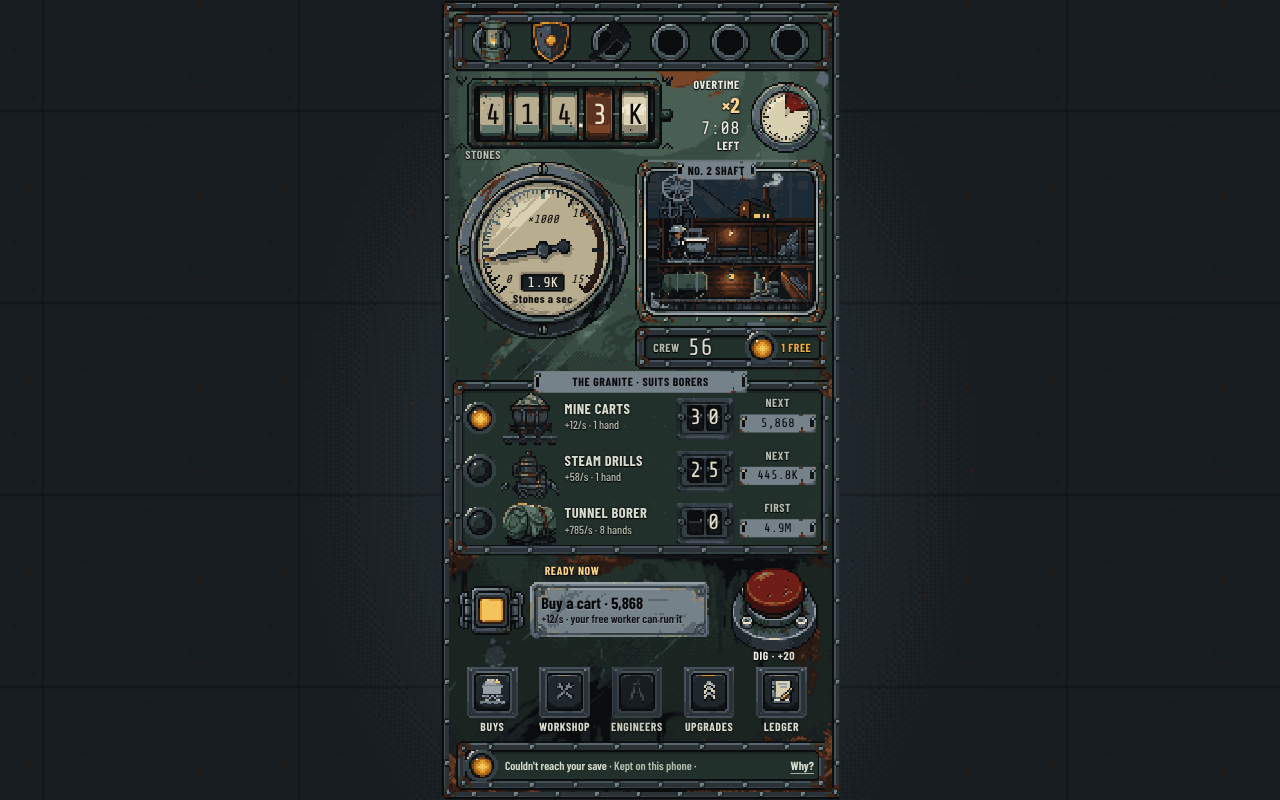
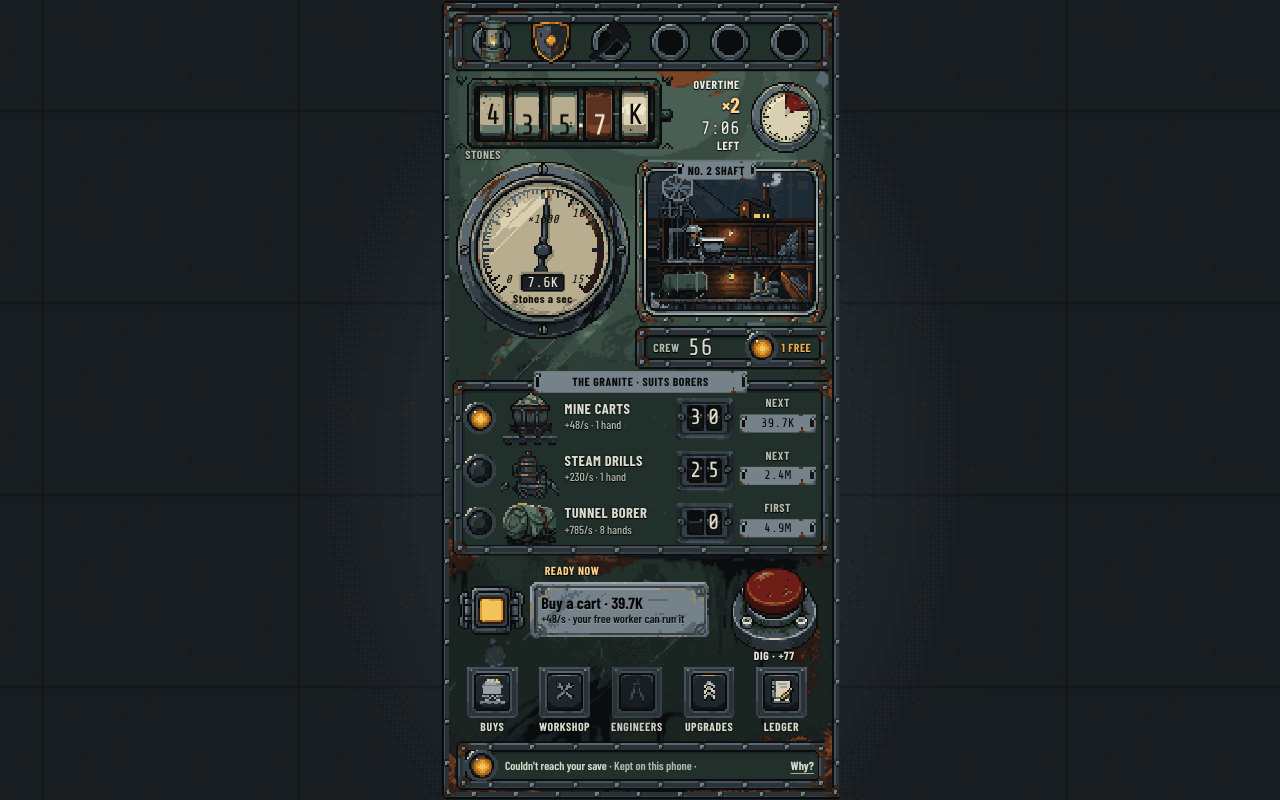
The control-board mockup takes its prices, speeds and milestone lines from the game's numbers, kept equal by a test (#387).
Claude-Session: https://claude.ai/code/session_011RgeWtHrfst9ZFo4UNmN4N

diff --git a/mockups/control-board/index.html b/mockups/control-board/index.html
@@ -215,7 +215,7 @@ body.desk #housing{display:block}
 .srow .ico{width:64px;height:64px}
 .srow .mid{position:relative;display:flex;flex-direction:column;min-width:0;overflow:hidden}
 .srow .nm{font-size:17px;line-height:19px;font-weight:700;color:var(--ink);white-space:nowrap}
-.srow .info{font-size:13px;line-height:15px;color:var(--ink-2);white-space:nowrap}
+.srow .info{font-size:13px;line-height:15px;color:var(--ink-2);white-space:nowrap;overflow:hidden;text-overflow:ellipsis}
 .srow .info.good{color:var(--green)}
 .srow .need{font-size:13px;line-height:15px;color:var(--rust);white-space:nowrap}
 .srow .need:empty{display:none}
@@ -444,6 +444,140 @@ body.desk #housing{display:block}
 </div>
 </div>
 
+<!-- The game's numbers: src/tiers.ts, src/milestones.ts and src/layers.ts (the Granite).
+     mockups/control-board.test.ts keeps this block equal to them (#387). -->
+<script type="application/json" id="game-numbers">
+{
+ "growth": {
+  "machine": 1.15,
+  "worker": 1.06
+ },
+ "tiers": {
+  "helper": {
+   "firstCost": 20,
+   "perSecond": 1
+  },
+  "cart": {
+   "firstCost": 600,
+   "perSecond": 6
+  },
+  "drill": {
+   "firstCost": 73080,
+   "perSecond": 36
+  },
+  "borer": {
+   "firstCost": 4940000,
+   "perSecond": 357
+  }
+ },
+ "granite": {
+  "drill": 0.8,
+  "borer": 1.1
+ },
+ "milestones": {
+  "multiplier": 2,
+  "reachedLine": "Twice as fast now.",
+  "marks": {
+   "helper": [
+    {
+     "at": 25,
+     "goal": "Twenty-five workers who know the songs. Every worker digs twice as fast."
+    },
+    {
+     "at": 50,
+     "goal": "Fifty workers around one long lunch table. Twice as fast again."
+    },
+    {
+     "at": 100,
+     "goal": "A hundred workers. The camp is a little village now. Twice as fast again."
+    }
+   ],
+   "cart": [
+    {
+     "at": 10,
+     "goal": "Ten carts on the rails. Every cart hauls twice as fast."
+    },
+    {
+     "at": 25,
+     "goal": "Twenty-five carts in a long, rattling line. Twice as fast again."
+    },
+    {
+     "at": 50,
+     "goal": "Fifty carts and the rails never rest. Twice as fast again."
+    },
+    {
+     "at": 100,
+     "goal": "A hundred carts, a river of rock. Twice as fast again."
+    },
+    {
+     "at": 150,
+     "goal": "A hundred and fifty carts. The tracks hum all night. Twice as fast again."
+    },
+    {
+     "at": 200,
+     "goal": "Two hundred carts. The old mine was never this busy. Twice as fast again."
+    }
+   ],
+   "drill": [
+    {
+     "at": 10,
+     "goal": "Ten drills and the crew finds its rhythm. Every drill mines twice as fast."
+    },
+    {
+     "at": 25,
+     "goal": "Twenty-five drills humming together. Twice as fast again."
+    },
+    {
+     "at": 50,
+     "goal": "Fifty drills in step, like one long breath. Twice as fast again."
+    },
+    {
+     "at": 100,
+     "goal": "A hundred drills. The whole hill thrums. Twice as fast again."
+    },
+    {
+     "at": 150,
+     "goal": "A hundred and fifty drills, and nobody has to shout. Twice as fast again."
+    },
+    {
+     "at": 200,
+     "goal": "Two hundred drills. The rock just gives way. Twice as fast again."
+    }
+   ],
+   "borer": [
+    {
+     "at": 5,
+     "goal": "Five borers side by side. They clear the tunnels twice as fast."
+    },
+    {
+     "at": 10,
+     "goal": "Ten borers in step. Twice as fast again."
+    },
+    {
+     "at": 25,
+     "goal": "Twenty-five borers in step. Twice as fast again."
+    },
+    {
+     "at": 50,
+     "goal": "Fifty borers, a slow and steady thunder. Twice as fast again."
+    },
+    {
+     "at": 100,
+     "goal": "A hundred borers. New tunnels open by the hour. Twice as fast again."
+    },
+    {
+     "at": 150,
+     "goal": "A hundred and fifty borers working the deep dark. Twice as fast again."
+    },
+    {
+     "at": 200,
+     "goal": "Two hundred borers. The mountain rings like a bell. Twice as fast again."
+    }
+   ]
+  }
+ }
+}
+</script>
 <script>
 (() => {
 "use strict";
@@ -501,7 +635,7 @@ const lamp = (el, k) => frameX(el, LAMP[k], 40);
 
 /* ---------- State: the player's real numbers ---------- */
 const S = {
-  stones: 412_400, base: 956, mul: 2,
+  stones: 412_400, mul: 2,
   boostLeft: 7 * 60 + 9, boostLen: 30 * 60,
   workers: 56, free: 1, carts: 30, drills: 25, borers: 0,
   tapLevel: 1, boots: false, picksLeft: 0,
@@ -509,9 +643,31 @@ const S = {
   bench: null, saveTries: 3,
 };
 const STAFF = { cart: 1, drill: 1, borer: 8 };
-/* #363 curve: machines ×1.13 a unit, workers ×1.08 (src/tiers.ts tierCost) */
+/* The game's numbers, from the game-numbers block above (#387) */
+const GAME = JSON.parse(document.getElementById("game-numbers").textContent);
+const COUNT = { helper: () => S.workers, cart: () => S.carts, drill: () => S.drills, borer: () => S.borers };
+/* src/tiers.ts tierCost: machines and workers each climb their own curve */
 const curve = (first, g, n) => Math.ceil(Number((first * g ** n).toPrecision(12)));
-const rate = () => S.base * S.mul;
+const priceOf = id => curve(GAME.tiers[id].firstCost, id === "helper" ? GAME.growth.worker : GAME.growth.machine, COUNT[id]());
+/* src/milestones.ts: every mark reached doubles every one of that tier */
+const marksOf = (id, n) => GAME.milestones.marks[id].filter(m => n >= m.at).length;
+/* src/rates.ts: one of a tier, in the Granite, with its marks, before Overtime */
+const eachOf = id => GAME.tiers[id].perSecond * (GAME.granite[id] ?? 1) * GAME.milestones.multiplier ** marksOf(id, COUNT[id]());
+/* src/milestones.ts milestoneLine, with the board's number format */
+function milestoneLine(id){
+  const n = COUNT[id](), marks = GAME.milestones.marks[id];
+  const now = marksOf(id, n) ? GAME.milestones.reachedLine : null;
+  const next = marks.find(m => n < m.at);
+  if (!next) return now;
+  const goal = `${short(n)} of ${short(next.at)} · ${next.goal}`;
+  return now ? `${now} ${goal}` : goal;
+}
+/* The Buys row's info line: the whole milestone line, then without the "twice as fast now"
+   lead; the last one clips with an ellipsis (Flemming's call on #387) */
+const markInfo = id => { const line = milestoneLine(id); return [line, line.replace(GAME.milestones.reachedLine + " ", "")]; };
+const BOOTS_EACH = 1.36;
+const base = () => Object.keys(COUNT).reduce((sum, id) => sum + eachOf(id) * COUNT[id](), 0) + (S.boots ? S.workers * BOOTS_EACH : 0);
+const rate = () => base() * S.mul;
 const tapPower = () => (1 + Math.floor(rate() * 0.01 * S.tapLevel)) * (S.picksLeft > 0 ? 2 : 1);
 const T0 = new Date(); T0.setHours(22, 14, 0, 0);
 const loadAt = performance.now();
@@ -542,21 +698,21 @@ function eta(sec){
 /* ---------- Buys, upgrades, workshop (same rules as the game) ---------- */
 const BUY = {
   worker: { key: "worker", group: "Crew", name: "Worker", one: "worker", icon: "mach-worker", verb: "Hire",
-    cost: () => curve(20, 1.08, S.workers), gain: () => 1 * S.mul,
-    info: () => `${S.workers} hired · ${S.free} free`,
-    buy(){ S.workers++; S.free++; S.base += 1; return { text: `Worker ${S.workers} is on the crew` }; } },
+    cost: () => priceOf("helper"), gain: () => eachOf("helper") * S.mul,
+    info: () => markInfo("helper"),
+    buy(){ S.workers++; S.free++; return { text: `Worker ${S.workers} is on the crew` }; } },
   cart: { key: "cart", group: "Machines", name: "Mine cart", one: "cart", icon: "mach-cart", verb: "Buy", staff: STAFF.cart,
-    cost: () => curve(150, 1.13, S.carts), gain: () => 6 * S.mul,
-    info: () => [`${S.carts} running · 1 worker each`, `${S.carts} running · 1 worker`],
-    buy(){ S.carts++; S.free--; S.base += 6; return { text: `Cart ${S.carts} is rolling`, bay: "bayCart" }; } },
+    cost: () => priceOf("cart"), gain: () => eachOf("cart") * S.mul,
+    info: () => markInfo("cart"),
+    buy(){ S.carts++; S.free--; return { text: `Cart ${S.carts} is rolling`, bay: "bayCart" }; } },
   drill: { key: "drill", group: "Machines", name: "Steam drill", one: "drill", icon: "mach-drill", verb: "Buy", staff: STAFF.drill,
-    cost: () => curve(21_000, 1.13, S.drills), gain: () => Math.round(28.8 * S.mul),
-    info: () => [`${S.drills} running · tough in the Granite`, `${S.drills} running · tough here`, `${S.drills} running`],
-    buy(){ S.drills++; S.free -= 1; S.base += 28.8; return { text: `Drill ${S.drills} is drilling`, bay: "bayDrill" }; } },
+    cost: () => priceOf("drill"), gain: () => Math.round(eachOf("drill") * S.mul),
+    info: () => markInfo("drill"),
+    buy(){ S.drills++; S.free -= 1; return { text: `Drill ${S.drills} is drilling`, bay: "bayDrill" }; } },
   borer: { key: "borer", group: "Machines", name: "Tunnel borer", one: "borer", icon: "mach-borer-tarp", verb: "Buy", staff: STAFF.borer,
-    cost: () => curve(4_940_000, 1.13, S.borers), gain: () => Math.round(392.7 * S.mul),
-    info: () => `Suits the Granite`, good: true,
-    buy(){ S.borers++; S.free -= 8; S.base += 392.7; return { text: `Borer ${S.borers} is boring in`, bay: "bayBorer" }; } },
+    cost: () => priceOf("borer"), gain: () => Math.round(eachOf("borer") * S.mul),
+    info: () => markInfo("borer"),
+    buy(){ S.borers++; S.free -= 8; return { text: `Borer ${S.borers} is boring in`, bay: "bayBorer" }; } },
 };
 const BUYS = [BUY.worker, BUY.cart, BUY.drill, BUY.borer];
 const MACHINES = [BUY.borer, BUY.drill, BUY.cart];
@@ -565,15 +721,15 @@ const UPGRADES = [
     cost: () => 1_200, gainText: () => "Taps ×2", info: () => S.picksLeft > 0 ? `${clock(S.picksLeft)} left` : "For 10 minutes",
     buy(){ S.picksLeft = 600; return { text: "Sharper picks are on" }; } },
   { key: "overtime", group: "Quick boosts", name: "Overtime", verb: "Refresh",
-    cost: () => Math.ceil(S.base * 180), gainText: () => "to 30:00", info: () => S.boostLeft > 0 ? `Crew ×2 · ${clock(S.boostLeft)} left` : "Crew ×2 for 30 min",
+    cost: () => Math.ceil(base() * 180), gainText: () => "to 30:00", info: () => S.boostLeft > 0 ? `Crew ×2 · ${clock(S.boostLeft)} left` : "Crew ×2 for 30 min",
     buy(){ S.mul = 2; S.boostLeft = S.boostLen; return { text: "Overtime runs to 30:00" }; } },
   { key: "arms", group: "Lasting", name: "Strong arms", verb: "Buy",
     cost: () => 40_000 * 5 ** S.tapLevel, gainText: () => "+" + short(Math.floor(rate() * .01 * (S.tapLevel + 1)) - Math.floor(rate() * .01 * S.tapLevel)) + "/tap",
     info: () => `Level ${S.tapLevel} to ${S.tapLevel + 1} · grows with crew`,
     buy(){ S.tapLevel++; return { text: `Strong arms, level ${S.tapLevel}` }; } },
   { key: "boots", group: "Lasting", name: "Better boots", verb: "Buy", once: () => S.boots,
-    cost: () => 650_000, gainText: () => "+" + Math.round(S.workers * 1.36 * S.mul) + "/s", info: () => "Every worker, every band",
-    buy(){ S.boots = true; S.base += S.workers * 1.36; return { text: "Better boots for the crew" }; } },
+    cost: () => 650_000, gainText: () => "+" + Math.round(S.workers * BOOTS_EACH * S.mul) + "/s", info: () => "Every worker, every band",
+    buy(){ S.boots = true; return { text: "Better boots for the crew" }; } },
 ];
 const WORKSHOP = [
   { key: "grease", group: "Recipes", name: "Axle grease", verb: "Craft", bench: 600,
@@ -1002,9 +1158,10 @@ function paintBays(animate){
     if (pt.textContent !== price){ pt.textContent = price; }
   });
   const sub = document.querySelectorAll(".bay .sub");
+  /* the milestone line when it fits (spec C, Milestones), else today's gain and hands */
   [BUY.cart, BUY.drill, BUY.borer].forEach((d, i) => {
     const g = `+${short(d.gain())}/s`, h = `${d.staff} hand${d.staff > 1 ? "s" : ""}`;
-    sub[i].dataset.fit = `${g} · ${h} each|${g} · ${h}|${g}`;
+    sub[i].dataset.fit = `${milestoneLine(d.key)}|${g} · ${h} each|${g} · ${h}|${g}`;
   });
   /* all three bays use the same wording: the longest pattern that fits every one of them */
   const key = [...sub].map(s => s.dataset.fit).join("#");

diff --git a/mockups/control-board.test.ts b/mockups/control-board.test.ts
@@ -1,0 +1,93 @@
+import { readFileSync } from "node:fs";
+import { dirname, join } from "node:path";
+import { fileURLToPath } from "node:url";
+import { describe, expect, it } from "vitest";
+import { formatCompact } from "../src/format.ts";
+import { hardnessOf } from "../src/layers.ts";
+import {
+  MILESTONES,
+  milestoneLine,
+  milestoneMultiplier,
+} from "../src/milestones.ts";
+import { tierById, tierCost, type TierId } from "../src/tiers.ts";
+
+/**
+ * The control-board reference mockup (#377) is plain HTML that opens from
+ * any static server, so it cannot import src/. Its game numbers sit in one
+ * JSON block instead, and this test keeps that block equal to the game
+ * (#387).
+ */
+type MockNumbers = {
+  readonly growth: { readonly machine: number; readonly worker: number };
+  readonly tiers: Readonly<
+    Record<string, { readonly firstCost: number; readonly perSecond: number }>
+  >;
+  readonly granite: Readonly<Record<string, number>>;
+  readonly milestones: {
+    readonly multiplier: number;
+    readonly reachedLine: string;
+    readonly marks: Readonly<
+      Record<string, readonly { readonly at: number; readonly goal: string }[]>
+    >;
+  };
+};
+
+const html = readFileSync(
+  join(dirname(fileURLToPath(import.meta.url)), "control-board/index.html"),
+  "utf8",
+);
+const block =
+  /<script type="application\/json" id="game-numbers">([\s\S]*?)<\/script>/u.exec(
+    html,
+  );
+const mock = JSON.parse(block?.[1] ?? "null") as MockNumbers;
+const BOARD_TIERS: readonly TierId[] = ["helper", "cart", "drill", "borer"];
+/** The mockup's curve, as written in index.html. */
+const curve = (first: number, growth: number, n: number): number =>
+  Math.ceil(Number((first * growth ** n).toPrecision(12)));
+
+describe("control-board mockup numbers", () => {
+  it("has the game-numbers block", () => {
+    expect(block).not.toBeNull();
+  });
+
+  it.each(BOARD_TIERS)("prices and speeds %s as src/tiers.ts", (id) => {
+    const tier = tierById(id);
+    const row = mock.tiers[id];
+    expect(row).toEqual({
+      firstCost: tier.firstCost,
+      perSecond: tier.perSecond,
+    });
+    const growth = tier.staff === 0 ? mock.growth.worker : mock.growth.machine;
+    for (const n of [0, 1, 10, 25, 30, 56, 100]) {
+      expect(curve(row?.firstCost ?? 0, growth, n)).toBe(tierCost(tier, n));
+    }
+  });
+
+  it("keeps only the tiers the board shows", () => {
+    expect(Object.keys(mock.tiers).sort()).toEqual([...BOARD_TIERS].sort());
+  });
+
+  it("slows and favours machines in the Granite as src/layers.ts", () => {
+    for (const id of BOARD_TIERS) {
+      expect(mock.granite[id] ?? 1).toBe(hardnessOf(2, id));
+    }
+  });
+
+  it.each(BOARD_TIERS)("marks %s as src/milestones.ts", (id) => {
+    expect(mock.milestones.marks[id]).toEqual(MILESTONES[id]);
+  });
+
+  it("doubles on a mark and words the line as src/milestones.ts", () => {
+    const cart = MILESTONES.cart ?? [];
+    const [first, second] = cart;
+    expect(first && second).toBeTruthy();
+    if (first === undefined || second === undefined) return;
+    expect(milestoneMultiplier("cart", first.at)).toBe(
+      mock.milestones.multiplier,
+    );
+    expect(milestoneLine("cart", first.at, formatCompact)).toBe(
+      `${mock.milestones.reachedLine} ${String(first.at)} of ${String(second.at)} · ${second.goal}`,
+    );
+  });
+});
